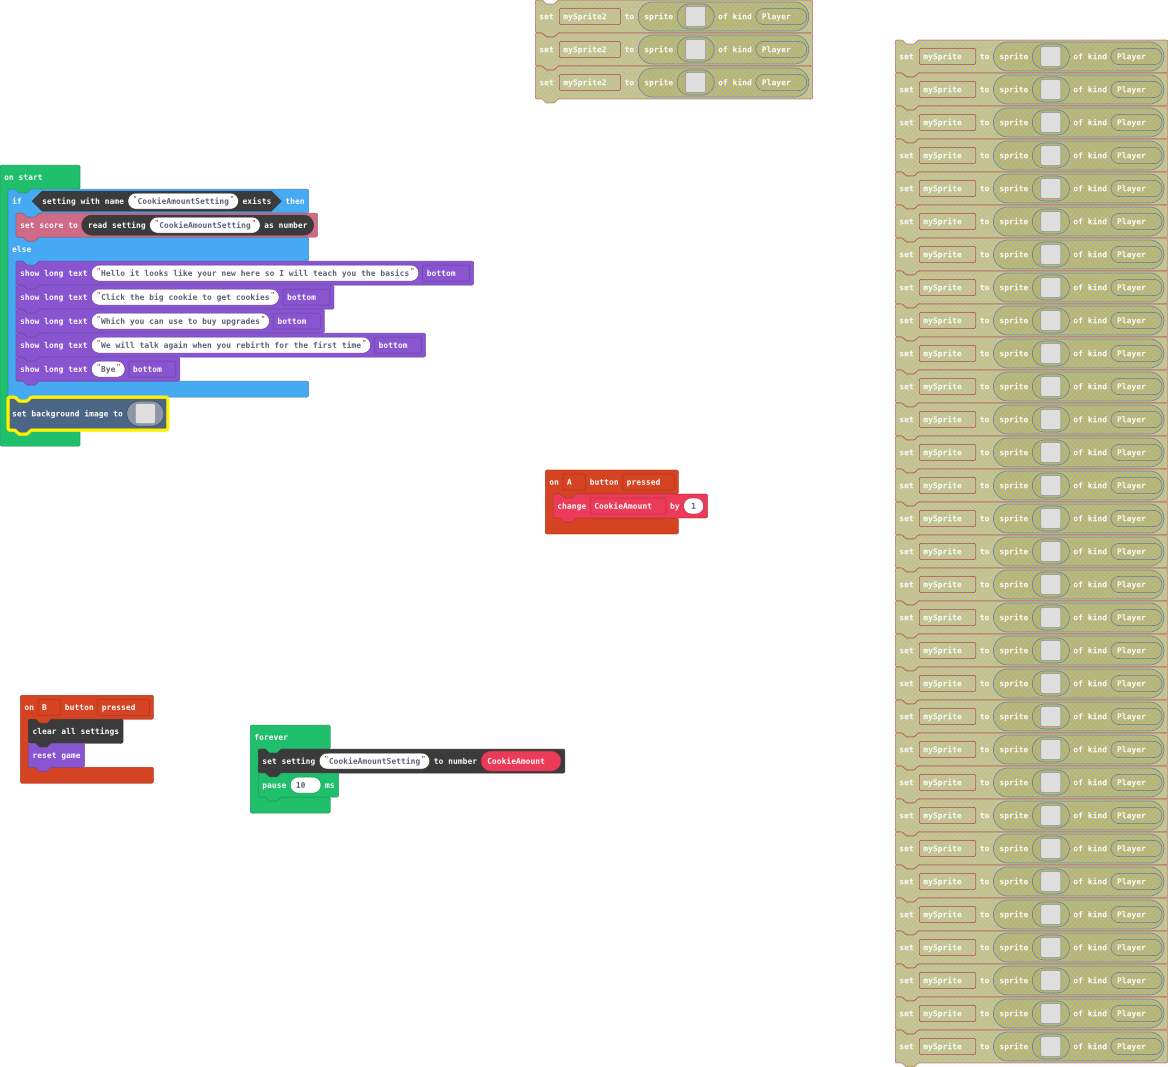
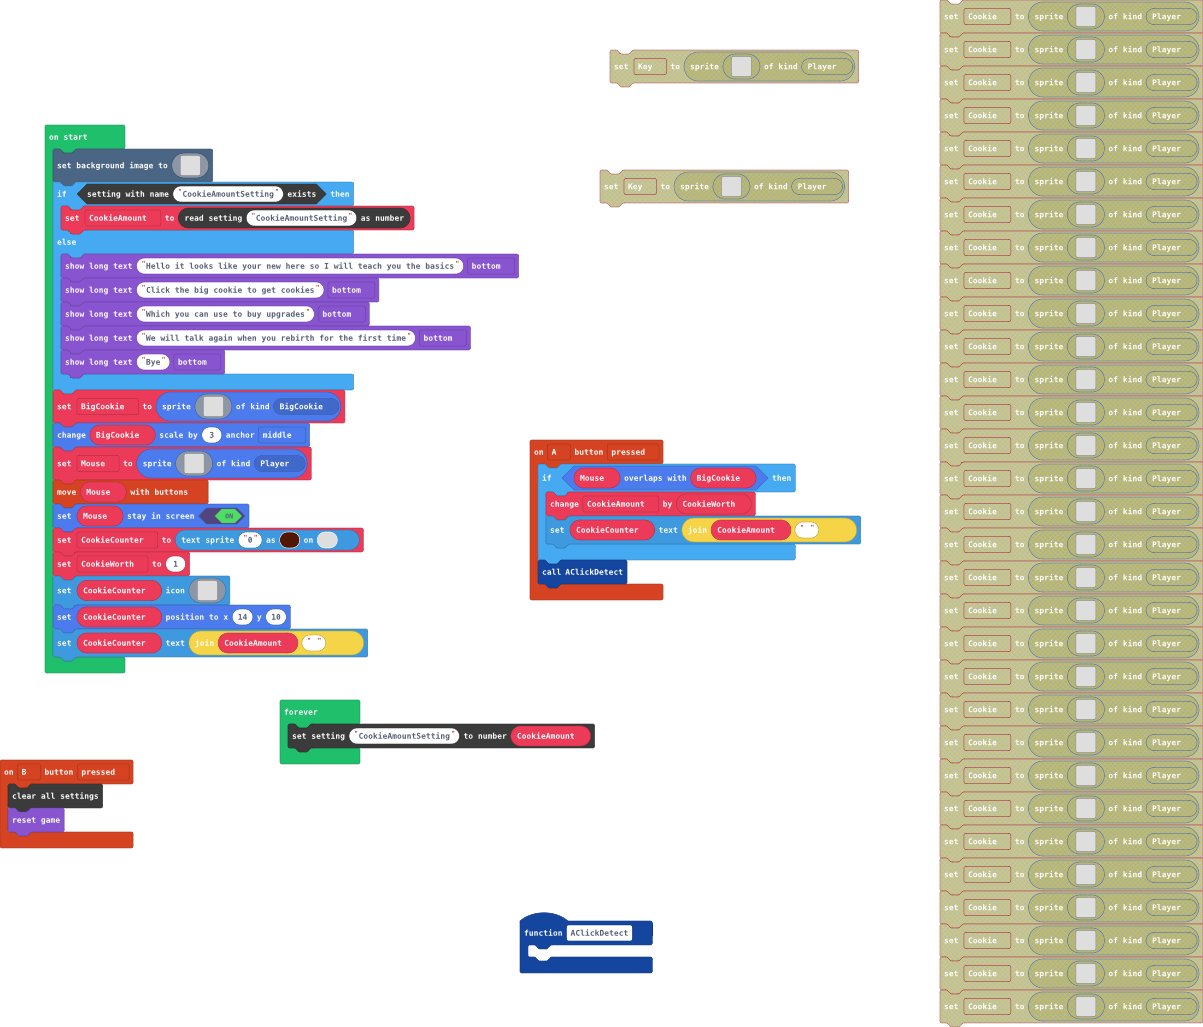
Update pxt.json, main.blocks, main.ts

diff --git a/main.ts b/main.ts
@@ -1,20 +1,25 @@
+namespace SpriteKind {
+    export const BigCookie = SpriteKind.create()
+}
 controller.B.onEvent(ControllerButtonEvent.Pressed, function () {
     blockSettings.clear()
     game.reset()
 })
 controller.A.onEvent(ControllerButtonEvent.Pressed, function () {
-    CookieAmount += 1
+    if (Mouse.overlapsWith(BigCookie)) {
+        CookieAmount += CookieWorth
+        CookieCounter.setText("" + CookieAmount + " ")
+    }
+    AClickDetect()
 })
-let CookieAmount = 0
-if (blockSettings.exists("CookieAmountSetting")) {
-    info.setScore(blockSettings.readNumber("CookieAmountSetting"))
-} else {
-    game.showLongText("Hello it looks like your new here so I will teach you the basics", DialogLayout.Bottom)
-    game.showLongText("Click the big cookie to get cookies", DialogLayout.Bottom)
-    game.showLongText("Which you can use to buy upgrades", DialogLayout.Bottom)
-    game.showLongText("We will talk again when you rebirth for the first time", DialogLayout.Bottom)
-    game.showLongText("Bye", DialogLayout.Bottom)
+function AClickDetect () {
+	
 }
+let CookieWorth = 0
+let CookieCounter: TextSprite = null
+let Mouse: Sprite = null
+let BigCookie: Sprite = null
+let CookieAmount = 0
 scene.setBackgroundImage(img`
     eeeeeeeeeeeeeeeeeeeeeeeeeeeeeeeeeeeeeeeeeeeeeeeeeeeeeeeeeeeeeeeeeeeeeeeeeeeeeeeeeeeeeeeeeeeeeeeeeeeeeeeeeeeeeeeeeeeeeeeeeeeeeeeeeeeeeeeeeeeeeeeeeeeeeeeeeeeeeeee
     eeeeeeeeeeeeeeeeeeeeeeeeeeeeeeeeeeeeeeeeeeeeeeeeeeeeeeeeeeeeeeeeeeeeeeeeeeeeeeeeeeeeeeeeeeeeeeeeeeeeeeeeeeeeeeeeeeeeeeeeeeeeeeeeeeeeeeeeeeeeeeeeeeeeeeeeeeeeeeee
@@ -137,7 +142,76 @@ scene.setBackgroundImage(img`
     eeeeeeeeeeeeeeeeeeeeeeeeeeeeeeeeeeeeeeeeeeeeeeeeeeeeeeeeeeeeeeeeeeeeeeeeeeeeeeeeeeeeeeeeeeeeeeeeeeeeeeeeeeeeeeeeeeeeeeeeeeeeeeeeeeeeeeeeeeeeeeeeeeeeeeeeeeeeeeee
     eeeeeeeeeeeeeeeeeeeeeeeeeeeeeeeeeeeeeeeeeeeeeeeeeeeeeeeeeeeeeeeeeeeeeeeeeeeeeeeeeeeeeeeeeeeeeeeeeeeeeeeeeeeeeeeeeeeeeeeeeeeeeeeeeeeeeeeeeeeeeeeeeeeeeeeeeeeeeeee
     `)
+if (blockSettings.exists("CookieAmountSetting")) {
+    CookieAmount = blockSettings.readNumber("CookieAmountSetting")
+} else {
+    game.showLongText("Hello it looks like your new here so I will teach you the basics", DialogLayout.Bottom)
+    game.showLongText("Click the big cookie to get cookies", DialogLayout.Bottom)
+    game.showLongText("Which you can use to buy upgrades", DialogLayout.Bottom)
+    game.showLongText("We will talk again when you rebirth for the first time", DialogLayout.Bottom)
+    game.showLongText("Bye", DialogLayout.Bottom)
+}
+BigCookie = sprites.create(img`
+    . . . . . 7 7 7 7 7 7 . . . . . 
+    . . . 7 7 4 4 4 4 4 4 7 7 . . . 
+    . . 7 4 4 4 4 4 7 4 4 4 4 7 . . 
+    . 7 4 4 4 4 4 4 4 4 4 4 4 4 7 . 
+    . 7 4 4 4 4 7 4 4 4 4 7 7 4 7 . 
+    7 4 4 4 4 7 7 7 4 4 4 7 7 4 4 7 
+    7 4 7 4 4 7 7 4 4 4 4 7 4 4 4 7 
+    7 4 4 4 4 4 4 4 4 4 4 4 4 4 4 7 
+    7 4 4 4 4 4 4 4 4 4 4 4 4 7 4 7 
+    7 4 4 7 7 4 4 4 4 4 4 4 4 4 4 7 
+    7 4 4 7 4 4 4 4 7 7 4 4 4 4 4 7 
+    . 7 4 4 4 4 4 4 7 7 4 4 4 4 7 . 
+    . 7 4 4 4 7 4 4 4 4 4 4 9 9 7 . 
+    . . 7 4 4 4 4 4 4 4 9 9 9 7 . . 
+    . . . 7 7 9 9 9 9 9 9 7 7 . . . 
+    . . . . . 7 7 7 7 7 7 . . . . . 
+    `, SpriteKind.BigCookie)
+BigCookie.changeScale(3, ScaleAnchor.Middle)
+Mouse = sprites.create(img`
+    1 1 1 . 1 . . . . 1 1 . . . 1 1 
+    1 . 1 . 1 . . . 1 . . 1 . 1 . . 
+    1 1 1 . 1 . . . 1 1 1 1 . 1 . . 
+    1 . . . 1 1 1 . 1 . . 1 . . 1 1 
+    . . . . . . . . . . . . . . . . 
+    1 1 1 . 1 . 1 . . 1 1 . . 1 . . 
+    1 . . . 1 . 1 . 1 . . 1 . 1 . . 
+    1 1 . . 1 1 1 . 1 . . 1 . 1 . . 
+    1 . . . 1 . 1 . 1 . . 1 . 1 . . 
+    1 1 1 . 1 . 1 . . 1 1 . . 1 1 1 
+    . . . . . . . . . . . . . . . . 
+    1 1 . . 1 1 1 . 1 1 1 . . . . . 
+    1 . 1 . 1 . . . 1 . . 1 . . . . 
+    1 . 1 . 1 1 1 . 1 . . 1 . . . . 
+    1 . 1 . 1 . . . 1 1 1 . . . . . 
+    1 1 . . 1 1 1 . 1 . . 1 . . . . 
+    `, SpriteKind.Player)
+controller.moveSprite(Mouse)
+Mouse.setStayInScreen(true)
+CookieCounter = textsprite.create("0", 0, 7)
+CookieWorth = 1
+CookieCounter.setIcon(img`
+    . . . . . 7 7 7 7 7 7 . . . . . 
+    . . . 7 7 4 4 4 4 4 4 7 7 . . . 
+    . . 7 4 4 4 4 4 7 4 4 4 4 7 . . 
+    . 7 4 4 4 4 4 4 4 4 4 4 4 4 7 . 
+    . 7 4 4 4 4 7 4 4 4 4 7 7 4 7 . 
+    7 4 4 4 4 7 7 7 4 4 4 7 7 4 4 7 
+    7 4 7 4 4 7 7 4 4 4 4 7 4 4 4 7 
+    7 4 4 4 4 4 4 4 4 4 4 4 4 4 4 7 
+    7 4 4 4 4 4 4 4 4 4 4 4 4 7 4 7 
+    7 4 4 7 7 4 4 4 4 4 4 4 4 4 4 7 
+    7 4 4 7 4 4 4 4 7 7 4 4 4 4 4 7 
+    . 7 4 4 4 4 4 4 7 7 4 4 4 4 7 . 
+    . 7 4 4 4 7 4 4 4 4 4 4 9 9 7 . 
+    . . 7 4 4 4 4 4 4 4 9 9 9 7 . . 
+    . . . 7 7 9 9 9 9 9 9 7 7 . . . 
+    . . . . . 7 7 7 7 7 7 . . . . . 
+    `)
+CookieCounter.setPosition(14, 10)
+CookieCounter.setText("" + CookieAmount + " ")
 forever(function () {
     blockSettings.writeNumber("CookieAmountSetting", CookieAmount)
-    pause(10)
 })
